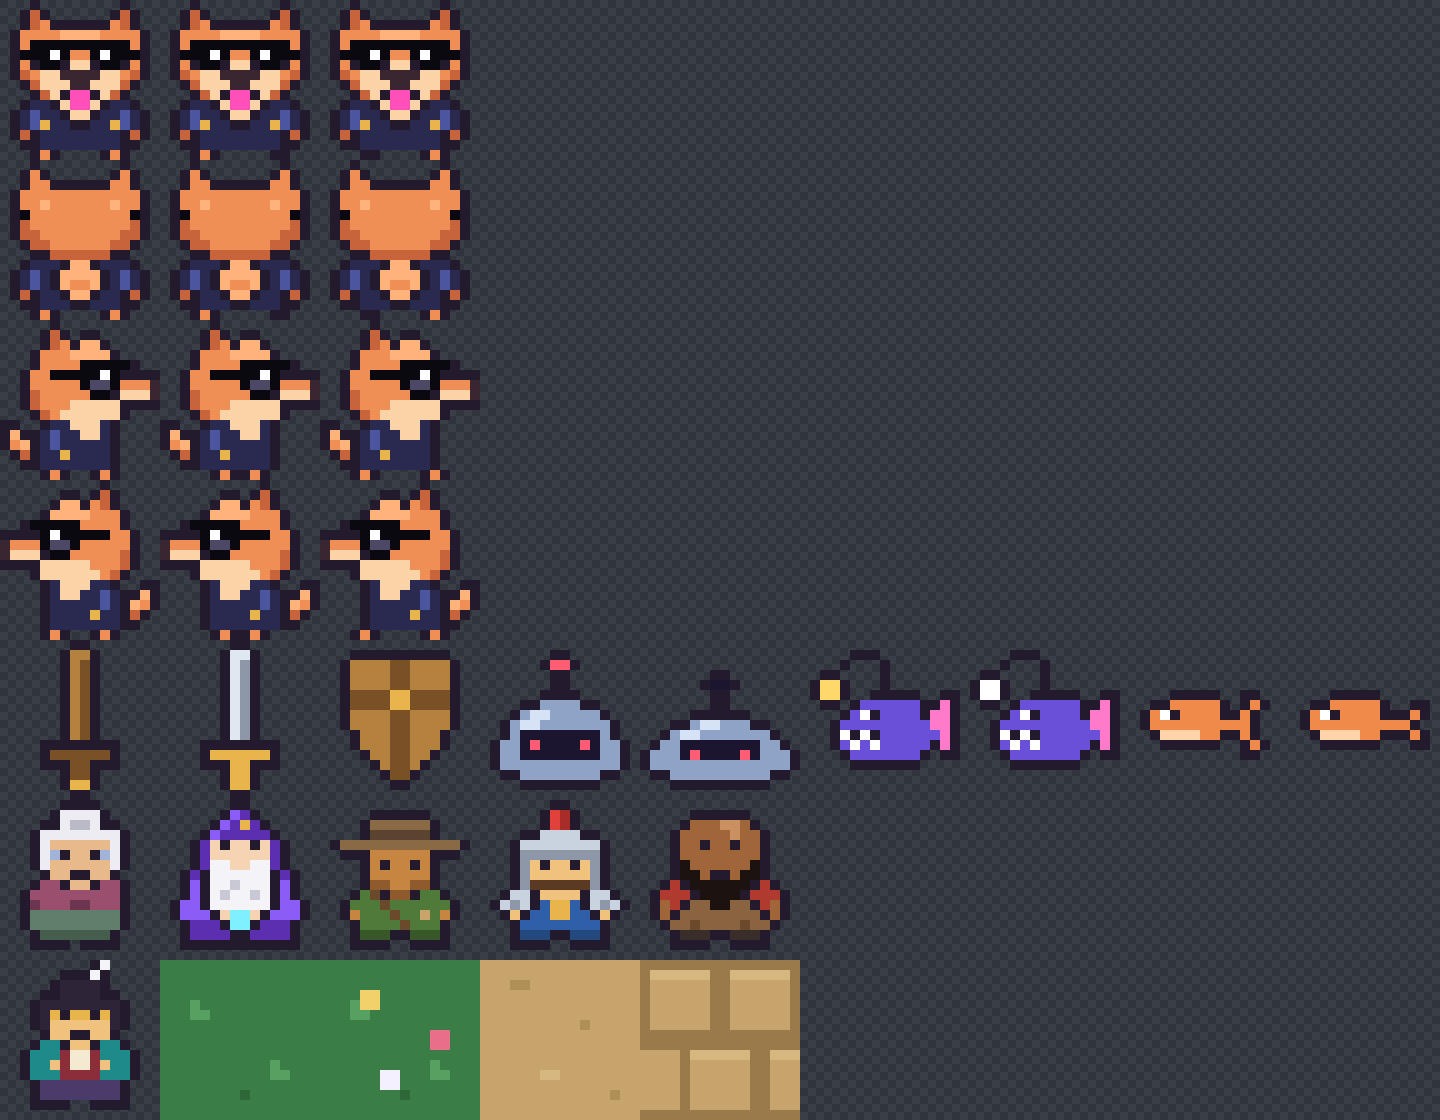
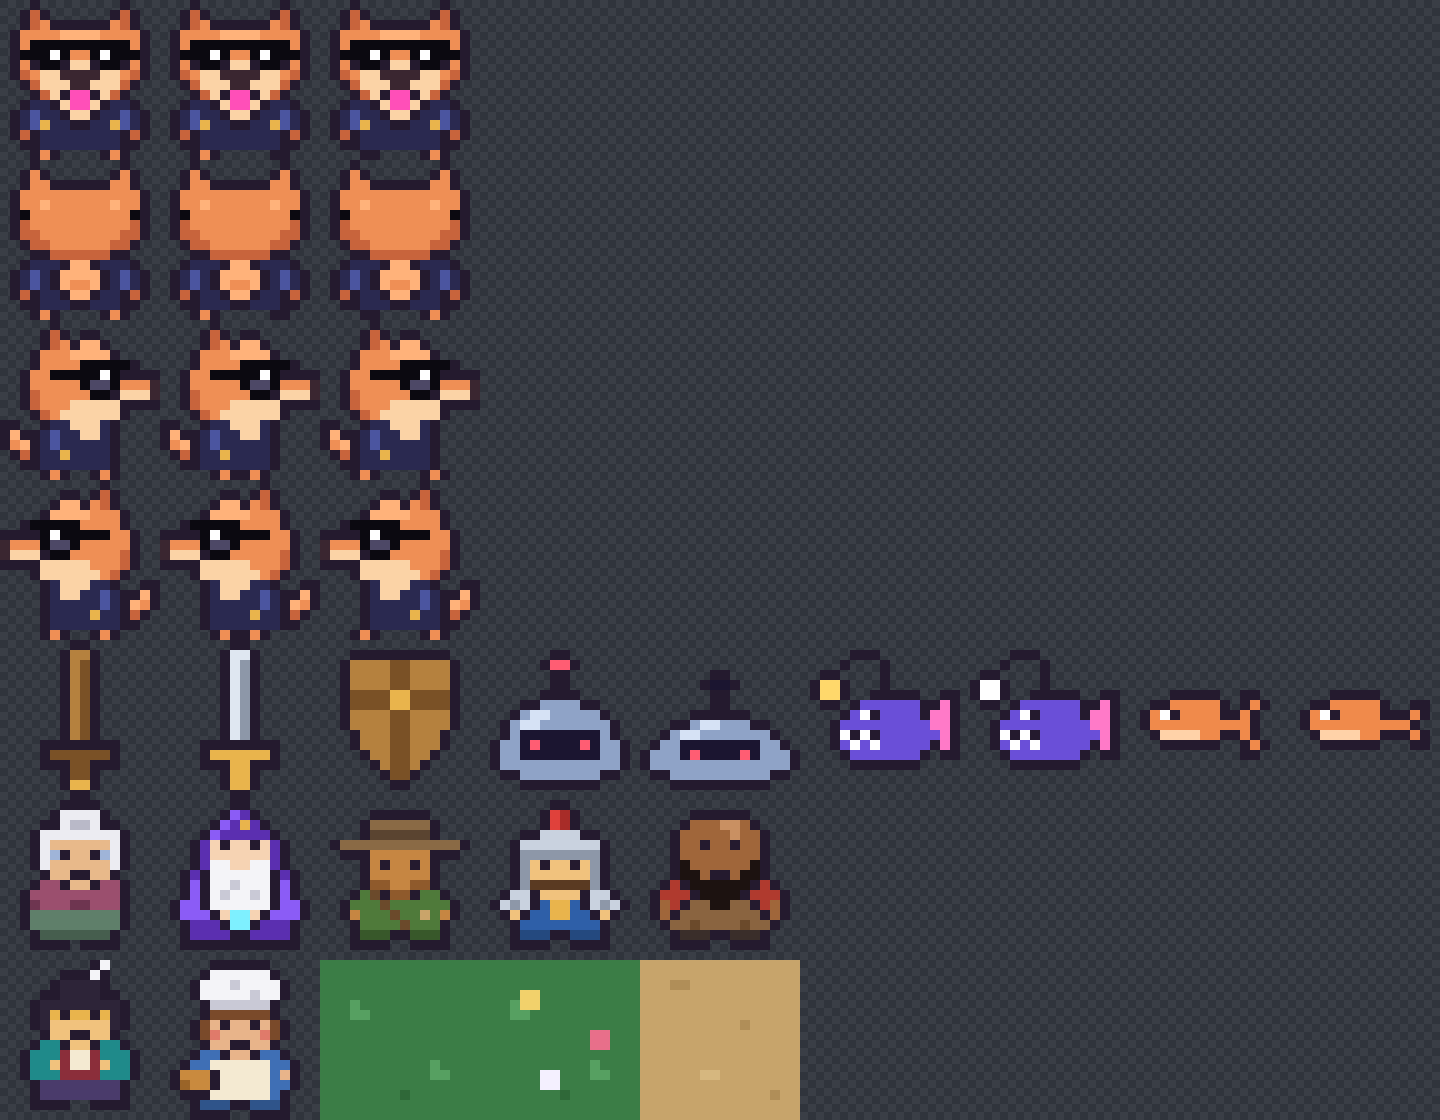
feat(game): add a baker in the town square who the gate lets in
The Traveler shows who the town gate turns away; the baker, a kingdom.com
citizen, shows the same rule letting someone through, and logs their ALLOW.

Changed region(s): [[0.2812, 0.8438, 0.5625, 1.0], [0.0938, 0.8438, 0.2812, 1.0]]

diff --git a/app/src/game/story.ts b/app/src/game/story.ts
@@ -26,6 +26,12 @@ const TRAVELER: Identity = {
   groups: [],
 }
 
+const BAKER: Identity = {
+  authenticated: true,
+  email: `baker@${KINGDOM_DOMAIN}`,
+  groups: [],
+}
+
 const learn = (lesson: LessonId) => quest.learn(lesson, LESSONS[lesson].title)
 const identity = () => quest.get().identity
 const who = (id: Identity) => (id.authenticated ? id.email : 'anonymous')
@@ -402,6 +408,34 @@ function traveler() {
   )
 }
 
+/** The Traveler's counterpart: same gate, same rule, but this citizen gets in. */
+function baker() {
+  const town = zoneById('town')
+  const path = `${town.prefix}/enter`
+  quest.say(
+    [
+      {
+        who: 'Baker',
+        text: `Morning! I'm ${BAKER.email}. I bring bread in through the town gate every day.`,
+      },
+      {
+        who: 'Baker',
+        text: `The gate checks me every single time, same as everyone. My email domain is ${KINGDOM_DOMAIN}, so its rule matches and it lets me through.`,
+      },
+      {
+        who: 'Baker',
+        text: 'The Traveler outside faces the same gate and the same rule. The only difference is who we are.',
+        links: [link('authz')],
+      },
+    ],
+    () => {
+      quest.log({ decision: 'ALLOW', method: 'GET', path, who: BAKER.email })
+      quest.toast(`ALLOW · GET ${path} as ${BAKER.email}`, 'allow')
+      learn('authz')
+    },
+  )
+}
+
 const SCRIPTS: Record<NpcId, () => void> = {
   sage: () => {
     if (identity().authenticated) {
@@ -437,6 +471,7 @@ const SCRIPTS: Record<NpcId, () => void> = {
   },
   oracle,
   traveler,
+  baker,
   captain: () => void captain(),
   armorer: () => {
     const armorerIntro =

diff --git a/app/src/game/world.ts b/app/src/game/world.ts
@@ -50,7 +50,7 @@ export const PLAYER_TERRAIN: ReadonlySet<number> = new Set([...WALKABLE, TILE.wa
 export const MAP_WIDTH = 40
 export const MAP_HEIGHT = 30
 
-export type NpcId = 'sage' | 'oracle' | 'traveler' | 'captain' | 'armorer' | 'librarian'
+export type NpcId = 'sage' | 'oracle' | 'traveler' | 'captain' | 'armorer' | 'librarian' | 'baker'
 
 /** Frame index of each NPC in npcs.png. */
 export const NPC_FRAME: Record<NpcId, number> = {
@@ -60,6 +60,7 @@ export const NPC_FRAME: Record<NpcId, number> = {
   captain: 3,
   armorer: 4,
   librarian: 5,
+  baker: 6,
 }
 
 export interface Point {
@@ -303,6 +304,7 @@ export function buildWorld(): World {
       { x: 21, y: 4, npcId: 'captain' },
       { x: 34, y: 9, npcId: 'armorer' },
       { x: 31, y: 25, npcId: 'librarian' },
+      { x: 30, y: 13, npcId: 'baker' },
     ],
     bots: [
       { x: 10, y: 2 },

diff --git a/app/src/game/sheets.ts b/app/src/game/sheets.ts
@@ -2,6 +2,6 @@
 export const SHEETS = {
   dog: '/assets/dog.png?v=0be57c5f01',
   items: '/assets/items.png?v=5d842e031d',
-  npcs: '/assets/npcs.png?v=f07d0ca26e',
+  npcs: '/assets/npcs.png?v=0acbe3224f',
   tiles: '/assets/tiles.png?v=0aa01ab445',
 } as const
